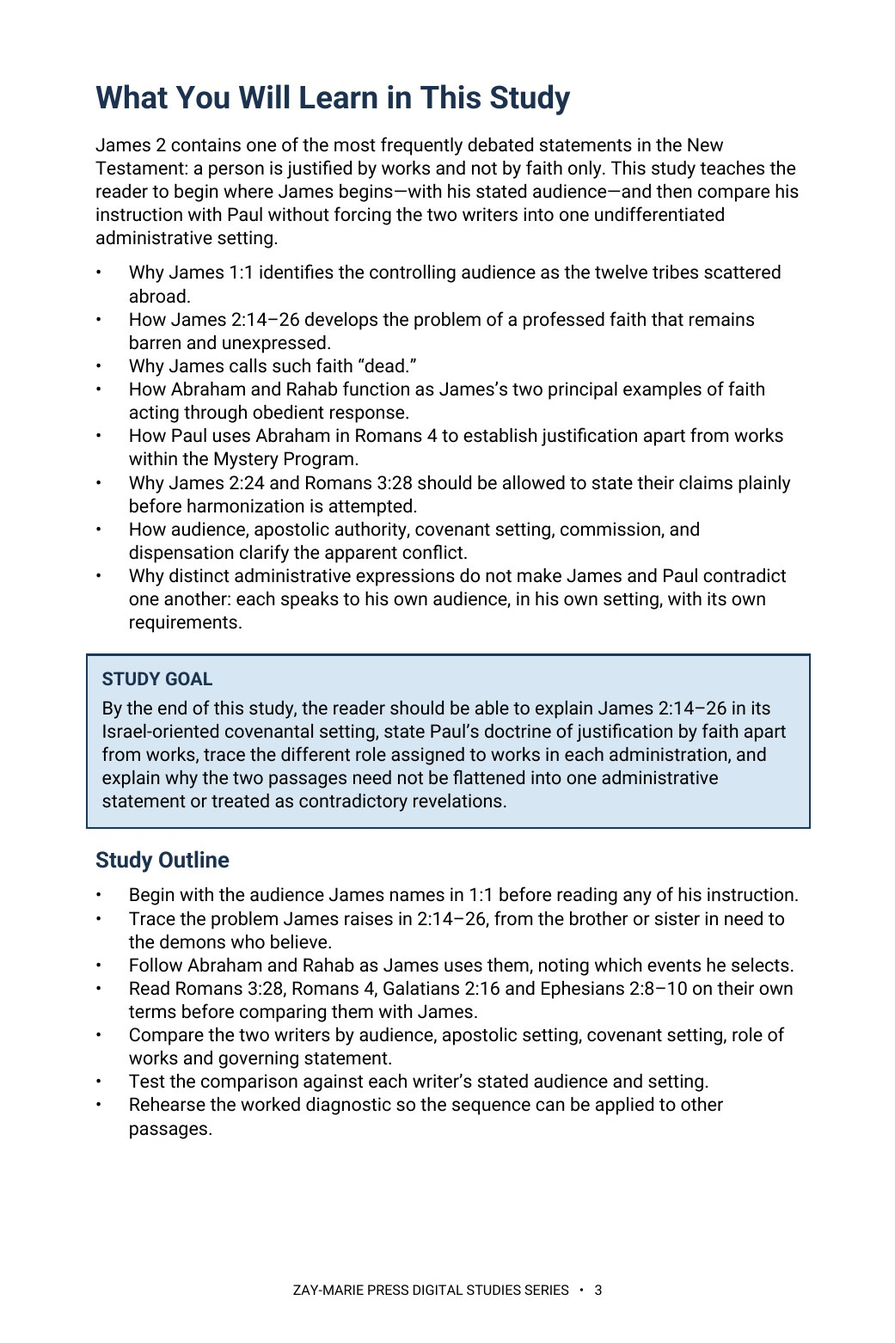
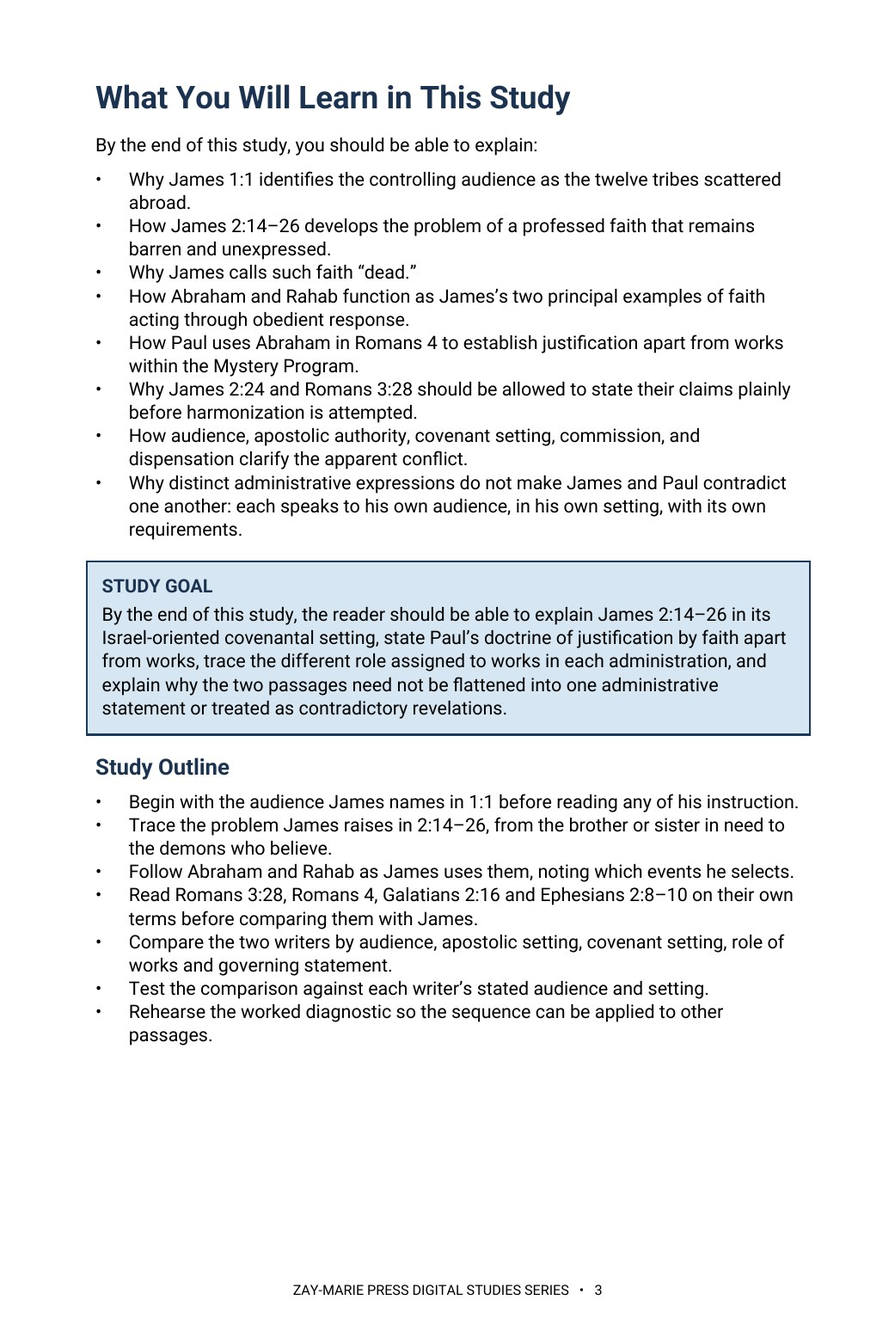
Study 15: What You Will Learn bulleted per v1.50; Acts Overlap removed from page copy; trackers v1.59/v1.153
Claude-Session: https://claude.ai/code/session_01KcENxFzE91mCRyTPWhcwnE

Changed region(s): [[0.0922, 0.0922, 0.9222, 0.8604]]

diff --git a/study-15-faith-and-works-in-james-and-paul.html b/study-15-faith-and-works-in-james-and-paul.html
@@ -9,13 +9,13 @@
 .study-detail-page{background:#fff;color:#252525}.study-detail-page .primary-nav a.active{color:#8a8a84!important;border-bottom:1px solid #8a8a84!important}.detail-hero{background:linear-gradient(135deg,#f8f5ec,#e3ece2);padding:58px 0}.detail-hero-grid{display:grid;grid-template-columns:minmax(250px,.72fr) minmax(0,1.28fr);gap:58px;align-items:center}.detail-cover{max-width:390px;margin:auto}.detail-cover img{display:block;width:100%;height:auto;box-shadow:0 14px 36px rgba(8,45,69,.18)}.detail-hero h1{font-size:clamp(2.7rem,5vw,4.7rem);line-height:1.02;margin:8px 0 10px;color:#143823}.detail-subtitle{font-family:Georgia,serif;font-size:1.35rem;font-weight:700;color:#082d45;margin:0 0 7px}.detail-kicker{font-family:Georgia,serif;font-style:italic;font-size:1.05rem;color:#4a4a44;margin:0 0 22px}.detail-copy{font-size:1.08rem;line-height:1.65;max-width:760px}.detail-buyline{display:flex;align-items:center;gap:18px;flex-wrap:wrap;margin-top:25px}.detail-price{font-family:Georgia,serif;font-size:2rem;font-weight:700;color:#143823}.detail-format{font-family:Arial,sans-serif;font-size:.76rem;font-weight:700;letter-spacing:.1em;text-transform:uppercase;color:#176b3a}.detail-button{display:inline-block;background:#176b3a;color:#fff;padding:13px 22px;text-decoration:none;font-family:Arial,sans-serif;font-size:.8rem;font-weight:700;letter-spacing:.07em;text-transform:uppercase}.detail-button.pending{opacity:.72;cursor:default}.detail-section{padding:66px 0}.detail-section.soft{background:#f6f7f2}.detail-section.cream{background:#faf8f2}.detail-section h2{color:#143823;margin:6px 0 18px;font-size:clamp(2rem,3.4vw,3rem)}.detail-section .lead{max-width:920px}.study-points{display:grid;grid-template-columns:repeat(3,1fr);gap:18px;margin-top:28px;margin-bottom:28px}.study-point{background:#fff;border:1px solid var(--line);border-top:3px solid #176b3a;padding:22px}.study-point h3{color:#143823;margin:0 0 8px;font-size:1.2rem}.study-point p{margin:0;line-height:1.55}.scripture-grid{display:grid;grid-template-columns:repeat(4,1fr);gap:14px;margin-top:24px;margin-bottom:24px}.scripture-card{background:#fff;border:1px solid #d8d1bf;padding:22px 20px;text-align:left;color:#143823}.scripture-card h3{margin:0 0 9px;font-family:Georgia,serif;font-size:1rem;line-height:1.35;font-weight:700;color:#143823}.scripture-card p{margin:0;font-size:.94rem;line-height:1.5;color:#45453f}.excerpt{max-width:900px;margin:28px auto;border-left:4px solid #b8871c;padding:10px 0 10px 28px}.excerpt blockquote{font-family:Georgia,serif;font-size:clamp(1.45rem,2.5vw,2rem);line-height:1.45;color:#143823;margin:0 0 16px}.excerpt p{line-height:1.6;margin:0}.preview-lightbox{position:fixed;inset:0;z-index:10000;display:none;align-items:flex-start;justify-content:center;background:rgba(8,22,16,.88);padding:24px;overflow:auto}.preview-lightbox.open{display:flex}.preview-lightbox img{display:block;width:auto;height:auto;max-width:none;box-shadow:0 18px 55px rgba(0,0,0,.4);background:#fff}.preview-lightbox-close{position:fixed;top:18px;right:24px;z-index:10001;width:46px;height:46px;border:1px solid rgba(255,255,255,.65);border-radius:50%;background:rgba(0,0,0,.55);color:#fff;font:32px/1 Arial,sans-serif;cursor:pointer}.preview-lightbox-hint{position:fixed;left:50%;bottom:14px;transform:translateX(-50%);z-index:10001;background:rgba(0,0,0,.46);color:rgba(255,255,255,.92);padding:6px 10px;font:11px Arial,sans-serif;letter-spacing:.02em;border-radius:3px;opacity:0;pointer-events:none;transition:opacity .35s ease}.preview-lightbox.open .preview-lightbox-hint{opacity:1}.preview-lightbox-hint.fade{opacity:0}.preview-grid{display:grid;grid-template-columns:repeat(2,1fr);gap:20px;margin-top:28px;margin-bottom:28px}.preview-card{background:#fff;border:1px solid var(--line);padding:18px;min-height:210px;box-shadow:0 7px 20px rgba(20,40,25,.05)}.preview-image-link{display:block;margin:0 0 18px;text-decoration:none}.preview-image-link img{display:block;width:100%;height:auto;border:1px solid #d8d1bf;box-shadow:0 8px 22px rgba(20,40,25,.10);transition:transform .18s ease,box-shadow .18s ease}.preview-image-link:hover img,.preview-image-link:focus img{transform:translateY(-2px);box-shadow:0 11px 28px rgba(20,40,25,.16)}.preview-card .page-no{font-family:Arial,sans-serif;font-size:.72rem;font-weight:700;letter-spacing:.12em;text-transform:uppercase;color:#176b3a}.preview-card h3{color:#143823;margin:8px 0 10px}.preview-card p{line-height:1.55;margin:0}.preview-instruction{margin:10px 0 0;font-family:Arial,sans-serif;font-size:.78rem;letter-spacing:.04em;color:#5b5b55}.includes-grid{display:grid;grid-template-columns:repeat(4,1fr);gap:14px;margin-top:26px}.include-item{background:#fff;border:1px solid var(--line);padding:22px 20px;text-align:left;color:#143823}.include-item h3{margin:0 0 9px;font-family:Arial,sans-serif;font-size:.86rem;line-height:1.35;font-weight:700;letter-spacing:.02em;color:#143823}.include-item p{margin:0;font-size:.94rem;line-height:1.5;color:#45453f}.final-buy{background:#082d45;color:#fff;border-top:4px solid #b8871c;padding:42px 48px;display:grid;grid-template-columns:1fr auto;gap:36px;align-items:center}.final-buy .eyebrow{color:#e0b34d}.final-buy h2{color:#fff;margin:7px 0 6px}.final-buy p{margin:0}.final-offer{text-align:center}.final-offer .detail-price{color:#fff;font-size:2.7rem}.back-link{display:inline-block;margin-top:18px;color:#143823;font-family:Arial,sans-serif;font-weight:700;text-decoration:none}@media(max-width:900px){.detail-hero-grid{grid-template-columns:1fr;gap:34px}.detail-cover{max-width:330px}.study-points{grid-template-columns:repeat(2,1fr)}.scripture-grid,.includes-grid{grid-template-columns:repeat(2,1fr)}.preview-grid{grid-template-columns:1fr}.final-buy{grid-template-columns:1fr}.final-offer{text-align:left}}@media(max-width:560px){.preview-lightbox{padding:58px 10px 24px}.preview-lightbox img{width:100%;max-width:100%;height:auto}.preview-lightbox-hint{display:none}.detail-hero{padding:42px 0}.detail-section{padding:50px 0}.study-points,.scripture-grid,.includes-grid{grid-template-columns:1fr}.final-buy{padding:32px 24px}.detail-buyline{align-items:flex-start;flex-direction:column;gap:8px}}
 .study-distinction{max-width:920px;margin-top:28px;margin-bottom:28px;padding:26px 28px;background:#fff;border:1px solid #d8d1bf;border-left:4px solid #b8871c}.study-distinction h3{margin:0 0 10px;color:#143823}.study-distinction p{margin:0 0 14px;line-height:1.62}.study-distinction p:last-child{margin-bottom:0}.study-distinction a{font-family:Arial,sans-serif;font-weight:700;color:#176b3a;text-decoration:none}</style></head>
 <body class="study-detail-page"><header class="site-header"><div class="wrap nav"><a aria-label="Zay-Marie Press home" class="logo" href="index.html"><img alt="Zay-Marie Press" height="238" src="assets/zay-marie-press-logo-hq.png" width="420"/></a><button aria-controls="primary-nav" aria-expanded="false" class="menu-toggle" type="button">MENU</button><nav aria-label="Primary navigation" class="primary-nav" id="primary-nav"><a href="index.html">HOME</a><a href="books.html">BOOKS</a><a href="series.html">SERIES</a><a class="active" aria-current="page" href="digital-studies.html">DIGITAL STUDIES</a><a href="biblical-hermeneutics-course.html">COURSE</a><a href="about.html">ABOUT</a><a href="resources.html">RESOURCES</a><a href="contact.html">CONTACT</a></nav></div></header><main>
-<section class="detail-hero"><div class="wrap detail-hero-grid"><div class="detail-cover"><img src="assets/study-15-cover.jpg" alt="Faith and Works in James and Paul — Study 15 cover"/></div><div><div class="eyebrow">STUDY 15 · DIGITAL STUDY</div><h1>Faith and Works in James and Paul</h1><p class="detail-subtitle">Two Apostolic Settings, Distinct Audiences and Requirements</p><p class="detail-kicker">A Biblical Examination of James 2, Paul’s Justification Teaching, Abraham, Rahab, and the Acts Overlap</p><p class="detail-copy">James 2 and Paul’s justification passages should not be softened, merged, or treated as contradictory before their own settings have been established. This study begins with James’s stated audience—the twelve tribes scattered abroad—and examines barren profession, living faith, Abraham, and Rahab.</p><p class="detail-copy">It then compares Paul’s doctrine of justification by faith apart from works under the Mystery revealed through him. The difference lies in audience, apostolic authority, covenantal setting, and administrative requirement—not in a contradiction between James and Paul.</p><div class="detail-buyline"><span class="detail-price">$5.99</span><span class="detail-format">Digital PDF</span><span class="detail-button pending">Get the Study</span></div></div></div></section>
-<section class="detail-section"><div class="wrap"><div class="eyebrow">ABOUT THIS STUDY</div><h2>How Do James and Paul Relate?</h2><p class="lead">James addresses an Israel-oriented, covenantal audience and insists that a professed faith which remains barren is dead. His conclusion—that a person is justified by works and not by faith only—must be read within that stated setting.</p><p class="lead">Paul, under the Mystery stewardship revealed through him, excludes human works from the ground and means of justification while still commanding good works as the fruit of grace. The Acts Overlap explains how James and Paul can minister in the same historical period without their commissions or governing instructions becoming identical.</p><p class="lead">This is not a study of Paul’s fuller Abraham argument across Romans and Galatians, which Study 40 traces on its own terms, nor of the Acts 15 dispute over circumcision and the law, which Study 19 examines as its own controversy. Its task is narrower: to read James 2 and Romans 4 each within its own stated audience, and to show that James’s covenantal, Israel-oriented setting does not contradict Paul’s exclusion of works from the ground of justification.</p><div class="study-distinction"><h3>How These Studies Relate</h3><p>Study 15 reads James 2 and Romans 4 according to each writer’s audience, argument, and use of Abraham.</p><p><a href="study-40-who-is-abrahams-seed.html">Study 40 — Who Is Abraham’s Seed?</a> Trace Paul’s fuller Abraham argument across Romans and Galatians; it helps distinguish his claims about faith and heirship from the question James is answering.</p><p><a href="study-19-the-jerusalem-council.html">Study 19 — The Jerusalem Council</a> Examine the separate Acts 15 dispute about circumcision and the law for Gentiles; this keeps a council decision from being used as a shortcut to resolve James 2.</p><p class="connection-guide-link"><a href="study-connections.html#study-15">Explore the full connection guide for Study 15 →</a></p></div></div></section>
+<section class="detail-hero"><div class="wrap detail-hero-grid"><div class="detail-cover"><img src="assets/study-15-cover.jpg" alt="Faith and Works in James and Paul — Study 15 cover"/></div><div><div class="eyebrow">STUDY 15 · DIGITAL STUDY</div><h1>Faith and Works in James and Paul</h1><p class="detail-subtitle">Two Apostolic Settings, Distinct Audiences and Requirements</p><p class="detail-kicker">A Biblical Examination of James 2, Paul’s Justification Teaching, Abraham, Rahab, and the Two Programs in Acts</p><p class="detail-copy">James 2 and Paul’s justification passages should not be softened, merged, or treated as contradictory before their own settings have been established. This study begins with James’s stated audience—the twelve tribes scattered abroad—and examines barren profession, living faith, Abraham, and Rahab.</p><p class="detail-copy">It then compares Paul’s doctrine of justification by faith apart from works under the Mystery revealed through him. The difference lies in audience, apostolic authority, covenantal setting, and administrative requirement—not in a contradiction between James and Paul.</p><div class="detail-buyline"><span class="detail-price">$5.99</span><span class="detail-format">Digital PDF</span><span class="detail-button pending">Get the Study</span></div></div></div></section>
+<section class="detail-section"><div class="wrap"><div class="eyebrow">ABOUT THIS STUDY</div><h2>How Do James and Paul Relate?</h2><p class="lead">James addresses an Israel-oriented, covenantal audience and insists that a professed faith which remains barren is dead. His conclusion—that a person is justified by works and not by faith only—must be read within that stated setting.</p><p class="lead">Paul, under the Mystery stewardship revealed through him, excludes human works from the ground and means of justification while still commanding good works as the fruit of grace. The concurrent operation of the two programs in Acts explains how James and Paul can minister in the same historical period without their commissions or governing instructions becoming identical.</p><p class="lead">This is not a study of Paul’s fuller Abraham argument across Romans and Galatians, which Study 40 traces on its own terms, nor of the Acts 15 dispute over circumcision and the law, which Study 19 examines as its own controversy. Its task is narrower: to read James 2 and Romans 4 each within its own stated audience, and to show that James’s covenantal, Israel-oriented setting does not contradict Paul’s exclusion of works from the ground of justification.</p><div class="study-distinction"><h3>How These Studies Relate</h3><p>Study 15 reads James 2 and Romans 4 according to each writer’s audience, argument, and use of Abraham.</p><p><a href="study-40-who-is-abrahams-seed.html">Study 40 — Who Is Abraham’s Seed?</a> Trace Paul’s fuller Abraham argument across Romans and Galatians; it helps distinguish his claims about faith and heirship from the question James is answering.</p><p><a href="study-19-the-jerusalem-council.html">Study 19 — The Jerusalem Council</a> Examine the separate Acts 15 dispute about circumcision and the law for Gentiles; this keeps a council decision from being used as a shortcut to resolve James 2.</p><p class="connection-guide-link"><a href="study-connections.html#study-15">Explore the full connection guide for Study 15 →</a></p></div></div></section>
 <section class="detail-section soft"><div class="wrap"><div class="eyebrow">WHAT YOU’LL STUDY</div><h2>Let Each Passage Speak in Its Own Setting</h2><div class="study-points"><div class="study-point"><h3>James’s Stated Audience</h3><p>Begin with the twelve tribes and the letter’s Israel-oriented covenantal setting.</p></div><div class="study-point"><h3>Dead Faith</h3><p>Examine James’s concern with a profession that remains barren and unexpressed.</p></div><div class="study-point"><h3>Abraham and Rahab</h3><p>Follow the examples James uses to describe living faith acting in response to God’s word.</p></div><div class="study-point"><h3>Paul’s Justification Teaching</h3><p>Read Romans, Galatians, and Ephesians on justification apart from works.</p></div><div class="study-point"><h3>Different Revelatory Settings</h3><p>Compare audience, authority, covenant setting, and the role of works without flattening either writer.</p></div><div class="study-point"><h3>Distinct Audiences and Requirements</h3><p>Keep each writer’s audience, setting, and administrative requirements distinct without setting either against the other.</p></div></div></div></section>
 <section class="detail-section cream"><div class="wrap"><div class="eyebrow">KEY SCRIPTURES</div><h2>Examine the Passages for Yourself</h2><div class="scripture-grid"><div class="scripture-card"><h3>James 1:1</h3><p>Names the twelve tribes scattered abroad as the letter’s audience.</p></div><div class="scripture-card"><h3>James 2:14-20</h3><p>Defines the problem of a professed faith that remains barren.</p></div><div class="scripture-card"><h3>Genesis 15:1-6</h3><p>Records Abraham’s belief and righteousness reckoned to faith.</p></div><div class="scripture-card"><h3>Genesis 22:1-18</h3><p>Supplies Abraham’s later obedient action in James’s argument.</p></div><div class="scripture-card"><h3>James 2:21-25</h3><p>Shows how James uses Abraham and Rahab.</p></div><div class="scripture-card"><h3>Romans 3:21-28</h3><p>States Paul’s exclusion of works from justification.</p></div><div class="scripture-card"><h3>Romans 4:1-8; Galatians 2:16</h3><p>Develops righteousness reckoned apart from works.</p></div><div class="scripture-card"><h3>Ephesians 2:8-10</h3><p>Distinguishes salvation apart from works from the good works that follow.</p></div></div></div></section>
 <section class="detail-section"><div class="wrap"><div class="eyebrow">FROM THE STUDY</div><h2>Do Not Flatten the Passages into One Formula</h2><div class="excerpt"><blockquote>“Let James speak to his stated audience. Let Paul speak under the Mystery revealed through him.”</blockquote><p>James’s covenantal setting and Paul’s Mystery stewardship explain why their statements must first be heard within their own audiences and administrative requirements, without setting either writer against the other.</p></div></div></section>
 <section class="detail-section soft"><div class="wrap"><div class="eyebrow">A LOOK INSIDE</div><h2>Preview the Study Before You Purchase</h2><p class="preview-instruction">Click any page to enlarge it for reading.</p><div class="preview-grid"><div class="preview-card"><a class="preview-image-link" data-preview-lightbox href="assets/study-15-page-2.jpg"><img src="assets/study-15-page-2.jpg" alt="Study 15 interior preview — page 2, table of contents"/></a><div class="page-no">Page 2</div><h3>Table of Contents</h3><p>See the full structure of the study, from the introduction through the final synthesis.</p></div><div class="preview-card"><a class="preview-image-link" data-preview-lightbox href="assets/study-15-page-3.jpg"><img src="assets/study-15-page-3.jpg" alt="Study 15 interior preview — page 3, what you will learn"/></a><div class="page-no">Page 3</div><h3>What You Will Learn</h3><p>See the skills and interpretive disciplines you will practice, plus the study goal and outline.</p></div><div class="preview-card"><a class="preview-image-link" data-preview-lightbox href="assets/study-15-page-5.jpg"><img src="assets/study-15-page-5.jpg" alt="Study 15 interior preview — page 5, the problem in James 2"/></a><div class="page-no">Page 5</div><h3>The Problem in James 2</h3><p>Follow James’s opening scene and his argument about faith that remains barren, working directly from the text.</p></div></div></div></section>
-<section class="detail-section"><div class="wrap"><div class="eyebrow">WHAT’S INCLUDED</div><h2>A Focused Study Built for<br/>Understanding and Teaching</h2><div class="includes-grid"><div class="include-item"><h3>15-Page In-Depth Biblical Study</h3><p>A careful reading of James 2 and Paul’s justification teaching.</p></div><div class="include-item"><h3>Ten Core Teaching Sections</h3><p>Move from James’s audience through Paul’s doctrine and the Acts Overlap.</p></div><div class="include-item"><h3>James 2 Study</h3><p>Trace dead faith, Abraham, Rahab, and James’s governing conclusion.</p></div><div class="include-item"><h3>Pauline Justification Study</h3><p>Examine Romans, Galatians, and Ephesians on faith apart from works.</p></div><div class="include-item"><h3>James and Paul Comparison</h3><p>Compare their settings, audiences, and the role works are assigned.</p></div><div class="include-item"><h3>Worked Diagnostic</h3><p>Use a repeatable sequence for difficult passages.</p></div><div class="include-item"><h3>Teaching Outline</h3><p>A ready framework for presenting the distinction with care.</p></div><div class="include-item"><h3>Guided Study and Synthesis</h3><p>Trace the passages directly, hearing each writer in his own setting.</p></div></div></div></section>
+<section class="detail-section"><div class="wrap"><div class="eyebrow">WHAT’S INCLUDED</div><h2>A Focused Study Built for<br/>Understanding and Teaching</h2><div class="includes-grid"><div class="include-item"><h3>15-Page In-Depth Biblical Study</h3><p>A careful reading of James 2 and Paul’s justification teaching.</p></div><div class="include-item"><h3>Ten Core Teaching Sections</h3><p>Move from James’s audience through Paul’s doctrine and the two programs in Acts.</p></div><div class="include-item"><h3>James 2 Study</h3><p>Trace dead faith, Abraham, Rahab, and James’s governing conclusion.</p></div><div class="include-item"><h3>Pauline Justification Study</h3><p>Examine Romans, Galatians, and Ephesians on faith apart from works.</p></div><div class="include-item"><h3>James and Paul Comparison</h3><p>Compare their settings, audiences, and the role works are assigned.</p></div><div class="include-item"><h3>Worked Diagnostic</h3><p>Use a repeatable sequence for difficult passages.</p></div><div class="include-item"><h3>Teaching Outline</h3><p>A ready framework for presenting the distinction with care.</p></div><div class="include-item"><h3>Guided Study and Synthesis</h3><p>Trace the passages directly, hearing each writer in his own setting.</p></div></div></div></section>
 <section class="detail-section cream"><div class="wrap"><div class="final-buy"><div><div class="eyebrow">STUDY 15 · DIGITAL STUDY</div><h2>Faith and Works in James and Paul</h2><p>15-page digital PDF · For personal use</p></div><div class="final-offer"><div class="detail-price">$5.99</div><span class="detail-button pending">Get the Study</span></div></div><a class="back-link" href="digital-studies.html">← Back to All Digital Studies</a></div></section><section class="study-method-course-bridge"><div class="wrap"><div class="study-method-course-panel"><div><div class="eyebrow">BUILD THE INTERPRETIVE METHOD</div><h2>Want More Than a Focused Study?</h2><p>Digital Studies examine particular biblical subjects and difficult passages. The 40-lesson Biblical Hermeneutics course teaches a complete, repeatable method for establishing meaning in context, determining proper assignment, and making responsible application.</p></div><a class="btn btn-primary" href="biblical-hermeneutics-course.html">BIBLICAL HERMENEUTICS COURSE</a></div></div></section></main>
 <div class="preview-lightbox" id="preview-lightbox" role="dialog" aria-modal="true" aria-label="Enlarged study page preview"><button class="preview-lightbox-close" type="button" aria-label="Close enlarged preview">×</button><img src="" alt=""/><div class="preview-lightbox-hint">Scroll to read the full page · Press Esc or click outside the page to close</div></div>
 <footer class="site-footer"><div class="wrap footer-grid"><div class="footer-about"><h3>Zay-Marie Press</h3><p class="footer-tagline"><em>Where the Bible Means What It Says.</em></p><p>Zay-Marie Press is a Christian theological publisher dedicated to producing doctrinally precise, carefully structured biblical resources that equip pastors, teachers, and serious students with clarity, depth, and Scripture-anchored truth.</p><p><a href="https://zaymariepress.com">zaymariepress.com</a><br/><a href="mailto:info@zaymariepress.com">info@zaymariepress.com</a></p></div><div class="footer-column"><h3>Explore</h3><div class="footer-links-stacked"><a href="books.html">Books</a><br/><a href="series.html">Series</a><br/><a href="biblical-hermeneutics-course.html">Course</a><br/><a href="digital-studies.html">Digital Studies</a><br/><a href="resources.html">Resources</a><br/><a href="bible-book-summaries.html">Bible Book Summaries</a><br/><a href="doctrinal-packets.html">Doctrinal Packets</a><br/><a href="historical-drift.html">Historical Drift</a><br/><a href="about.html">About</a><br/><a href="contact.html">Contact</a></div></div><div class="footer-column"><h3>Reader Support</h3><div class="footer-links-stacked"><a href="reader-support.html#faq">FAQ</a><br/><a href="reader-support.html#shipping-returns">Shipping &amp; Returns</a><br/><a href="reader-support.html#digital-downloads">Digital Downloads</a><br/><a href="reader-support.html#contact-support">Contact Support</a></div></div><div class="footer-column"><h3>Acts Overlap</h3><p><strong>Acts Overlap Theology Series</strong></p><p><em>Two Distinct Streams. One Overlap.</em></p><p><a href="series.html">Series Overview</a></p></div></div><div class="wrap footer-bottom">© 2026 Zay-Marie Press. All rights reserved.</div></footer>

diff --git a/CLAUDE.md b/CLAUDE.md
@@ -23,7 +23,7 @@ These are kept in the repo at `controlling-documents/` and are the current versi
 - As of v1.50 (publisher directive, 2026-10-03), the **What You Will Learn in This Study** section is always bulleted, never set as running paragraphs, written into this file in the same pass (Master Standard Section 3 item 4, Section 6 structure line, Section 22): a list of bullet points, each describing one process, textual marker or interpretive discipline the reader will practice (Section 17 still governs what they may say); at most one short lead-in line may stand above the bullets (for example, “By the end of this study, you should be able to:”); the Study Goal callout and the Study Outline keep their own forms. It governs every new study and every study rebuilt or retrofitted from now on; earlier studies take it when reopened or when the publisher directs. In every study check (Step 1), report whether the section is bulleted. First applied to Study 43.
 **`controlling-documents/Digital_Studies_Relationship_Map_v1.39.md`** — records each study's distinct subject, its related studies, the eight priced six-study collections, the Paul's Missionary Journeys cross-reference map, and the five primary catalog categories (currently version 1.39, covers Studies 1–71; update it as new studies publish, bump the version number, rename the file to match, and log the change in its own version-history table — mirroring the Master Standard's `_vX.Y` filename convention). Check a proposed topic against it before recommending or writing a new study. (2026-09-28: the file was missing from this repo despite this note referencing it; replaced from the publisher's copy and bumped v1.15→v1.25 in the same pass. If this note ever again points to a version not present under `controlling-documents/`, ask the publisher for a copy rather than proceeding without the check.)
 - **`controlling-documents/Digital_Studies_Category_Standard_v1.1.md`** — FINAL and binding (publisher, 2026-10-01): the rules for the five primary catalog categories (Foundations, Israel & Prophecy, Body of Christ, Passages, Doctrinal Themes), the ordered decision procedure for new studies, the precedents, all 71 fixed assignments, and the cover-label form for each category. Read it before placing any card or cover label. Do not ask the publisher where a study belongs; apply the procedure and state the result. Only the publisher changes a ruling; then bump this Standard's version and filename, re-letter the cover, and update the Relationship Map.
-- **`controlling-documents/Doctrinal_Upgrade_Retrofit_Plan_v1.58.md`** — working tracker for retrofitting Studies 1–59 to the 2026-10-02 doctrinal upgrade (Framework/PAM v1.1, Master Standard v1.40, Rules 7–17): withdrawn-wording search keys, impact tiers, waves and the per-study method. Read it before continuing the retrofit in any session; update status, bump the version and rename the file as work proceeds.
+- **`controlling-documents/Doctrinal_Upgrade_Retrofit_Plan_v1.59.md`** — working tracker for retrofitting Studies 1–59 to the 2026-10-02 doctrinal upgrade (Framework/PAM v1.1, Master Standard v1.40, Rules 7–17): withdrawn-wording search keys, impact tiers, waves and the per-study method. Read it before continuing the retrofit in any session; update status, bump the version and rename the file as work proceeds.
 - **`controlling-documents/Doctrinal_Packet_Standard_v0.3.md`** — Doctrinal Packet Standard (DRAFT; §7 approved). Governs the separate Doctrinal Packets product strand (5-page interpretive PDFs per Bible book — a print-friendly cover as page 1 plus 4 content pages, $2.99, KJV, pilot: Genesis, live at `packet-genesis.html`, hub `doctrinal-packets.html`; site pages say "5 Pages", cover styles live in `packets.css`, Old Testament blue and New Testament soft pale green, hub listed in Bible order). **Preview rule (publisher directive, 2026-09-29, packets only):** previews show about one page's worth in two cropped views (top of page 1 through the anchor texts; the chart section) — never the exegesis, architecture, Mystery contrast, logic chain, outline, or closing. Master Standard §16/§17 still govern Digital Studies. Bump the version and rename the file as the Standard is finalized.
 - **`controlling-documents/Preview_Page_Spoiler_Retrofit_Audit_v1.4.md`** — working tracker for the Studies 1–60 preview-page conclusion-spoiler retrofit (see the section below). Read it before continuing that audit in any session; update its status fields and changelog, bump the version, and rename the file to match as the audit proceeds — same `_vX.Y` convention as the other controlling documents. As of v1.1, the website-side half was DONE: all 60 studies' "What You'll Study" text was judged against the rule (methodology documented in the file) and 22 points across 11 studies were rewritten and pushed; an unrelated Study 22 content bug (Study 21's content had leaked into it) was also found and fixed. As of v1.2, the publisher supplied Studies 1–60's interior production PDFs and the interior-PDF half was also surveyed (read-only): 10 studies (37, 41, 45, 47, 48, 49, 51, 52, 53, 54) were found to have at least one interior "What You Will Learn" violation, 50 studies were confirmed compliant, and the orphaned `assets/study-45-sanctification-under-grace.docx` (removed from the repo per the publisher in v1.0) was confirmed word-for-word identical to Study 45's actual production interior PDF content. As of v1.3, the publisher supplied editable DOCX sources for all 10 violating studies; all 15 violating points were rewritten and approved, delivered as corrected final PDFs, and — along the way — a second defect was found and fixed (Studies 47 and 48's source DOCX still had an unintegrated cover placeholder despite both being long-published live with real covers; fixed by inserting the existing approved cover art). The website's "What You Will Learn" preview image (`study-NN-page-3.jpg`) was regenerated from the corrected content for all 10 studies and pushed to `main` (commit `cea1859`), verified against a fresh clone. **The website side of this audit is now fully compliant for all 60 studies.** Outstanding: the publisher's purchasable interior PDF files themselves have corrected versions delivered, but distribution to existing purchasers was decided by the publisher on 2026-09-29: silent swap of the files behind the existing downloads, no reissue notice (recorded in the v1.4 changelog entry; the product files are not in this repo).
 

diff --git a/controlling-documents/Doctrinal_Upgrade_Retrofit_Plan_v1.59.md b/controlling-documents/Doctrinal_Upgrade_Retrofit_Plan_v1.59.md
@@ -151,3 +151,4 @@ Working tracker for correcting published studies to the Framework/PAM v1.1, Mast
 - v1.56 (2026-10-03): Study 43 website step done on the publisher’s second approval: `site.js` 43:20; page-count text 20; previews 2, 3 re-rendered and the third preview moved from page 8 to page 10 (the gospel’s audience; `study-43-page-8.jpg` removed); local checks at 1280/390/360/320 clean. Final PDF/DOCX delivered.
 - v1.57 (2026-10-03): Live walk-through of Studies 12 and 15 (publisher request) found and fixed two items. (1) Study 15 final PDF: the contents entry for section 9 had its page number glued to the title ("Distinct Requirements9", no tab leader), a defect from the section 9 retitle; fixed, all three retrofitted contents pages (12, 15, 43) re-checked for a dotted leader and page number on every line, preview image 2 re-rendered, corrected final PDF/DOCX redelivered. (2) Study 12 page About text still said "Christ’s finished redemptive work"; changed to "Christ’s blood" under the publisher’s Study 12 ruling. Open for the publisher: the Study 15 cover art itself carries the subtitle "Two Apostolic Settings, One Finished Work of Christ" (the web subtitle already reads "Distinct Audiences and Requirements"); a cover change needs his approval.
 - v1.58 (2026-10-03): Study 15 cover subtitle re-lettered on the publisher’s wording and approved proof: "Two Apostolic Settings, Distinct Audiences and Requirements" (replaces "…One Finished Work of Christ"); only the subtitle changed. `assets/study-15-cover.jpg` replaced; cover in the interior DOCX/PDF replaced (15 pages, Roboto only, text of pages 2–15 unchanged). Corrected finals delivered.
+- v1.59 (2026-10-03): Study 15 follow-ups from the live walk. (1) "What You Will Learn" brought to the v1.50 bullet rule: the five-line running paragraph replaced by one lead-in line ("By the end of this study, you should be able to explain:") above the eight bullets, whose substance the Introduction already carries; Introduction kept on page 4 (page break before), so pages 2 and 4–15 and the contents are unchanged; 15 pages, Roboto only; `study-15-page-3.jpg` re-rendered. (2) Website copy: "Acts Overlap" removed from the Study 15 page (kicker now "…Rahab, and the Two Programs in Acts"; About: "The concurrent operation of the two programs in Acts explains…"; What's Included: "…and the two programs in Acts"); the footer series name "Acts Overlap Theology Series" is the publisher's series name and was left. The Study 15 interior still uses "the Acts Overlap" in five places (introduction, a callout title, review question 11, two closing lines), left for the publisher's ruling.

diff --git a/controlling-documents/Digital_Studies_PAM_Audit_v1.153.md b/controlling-documents/Digital_Studies_PAM_Audit_v1.153.md
@@ -382,3 +382,4 @@ Study 15 PDF not yet supplied. Typography: none of Studies 2, 3, 6, 8 is in EB G
 - v1.150 (2026-10-03): Study 43 retrofitted and live (see Retrofit Plan v1.56).
 - v1.151 (2026-10-03): Study 15 contents-entry fix and Study 12 About-text fix (see Retrofit Plan v1.57); Study 15 cover subtitle raised for the publisher.
 - v1.152 (2026-10-03): Study 15 cover subtitle re-lettered (see Retrofit Plan v1.58); item closed.
+- v1.153 (2026-10-03): Study 15 What You Will Learn bulleted; "Acts Overlap" removed from the Study 15 page copy (see Retrofit Plan v1.59).
